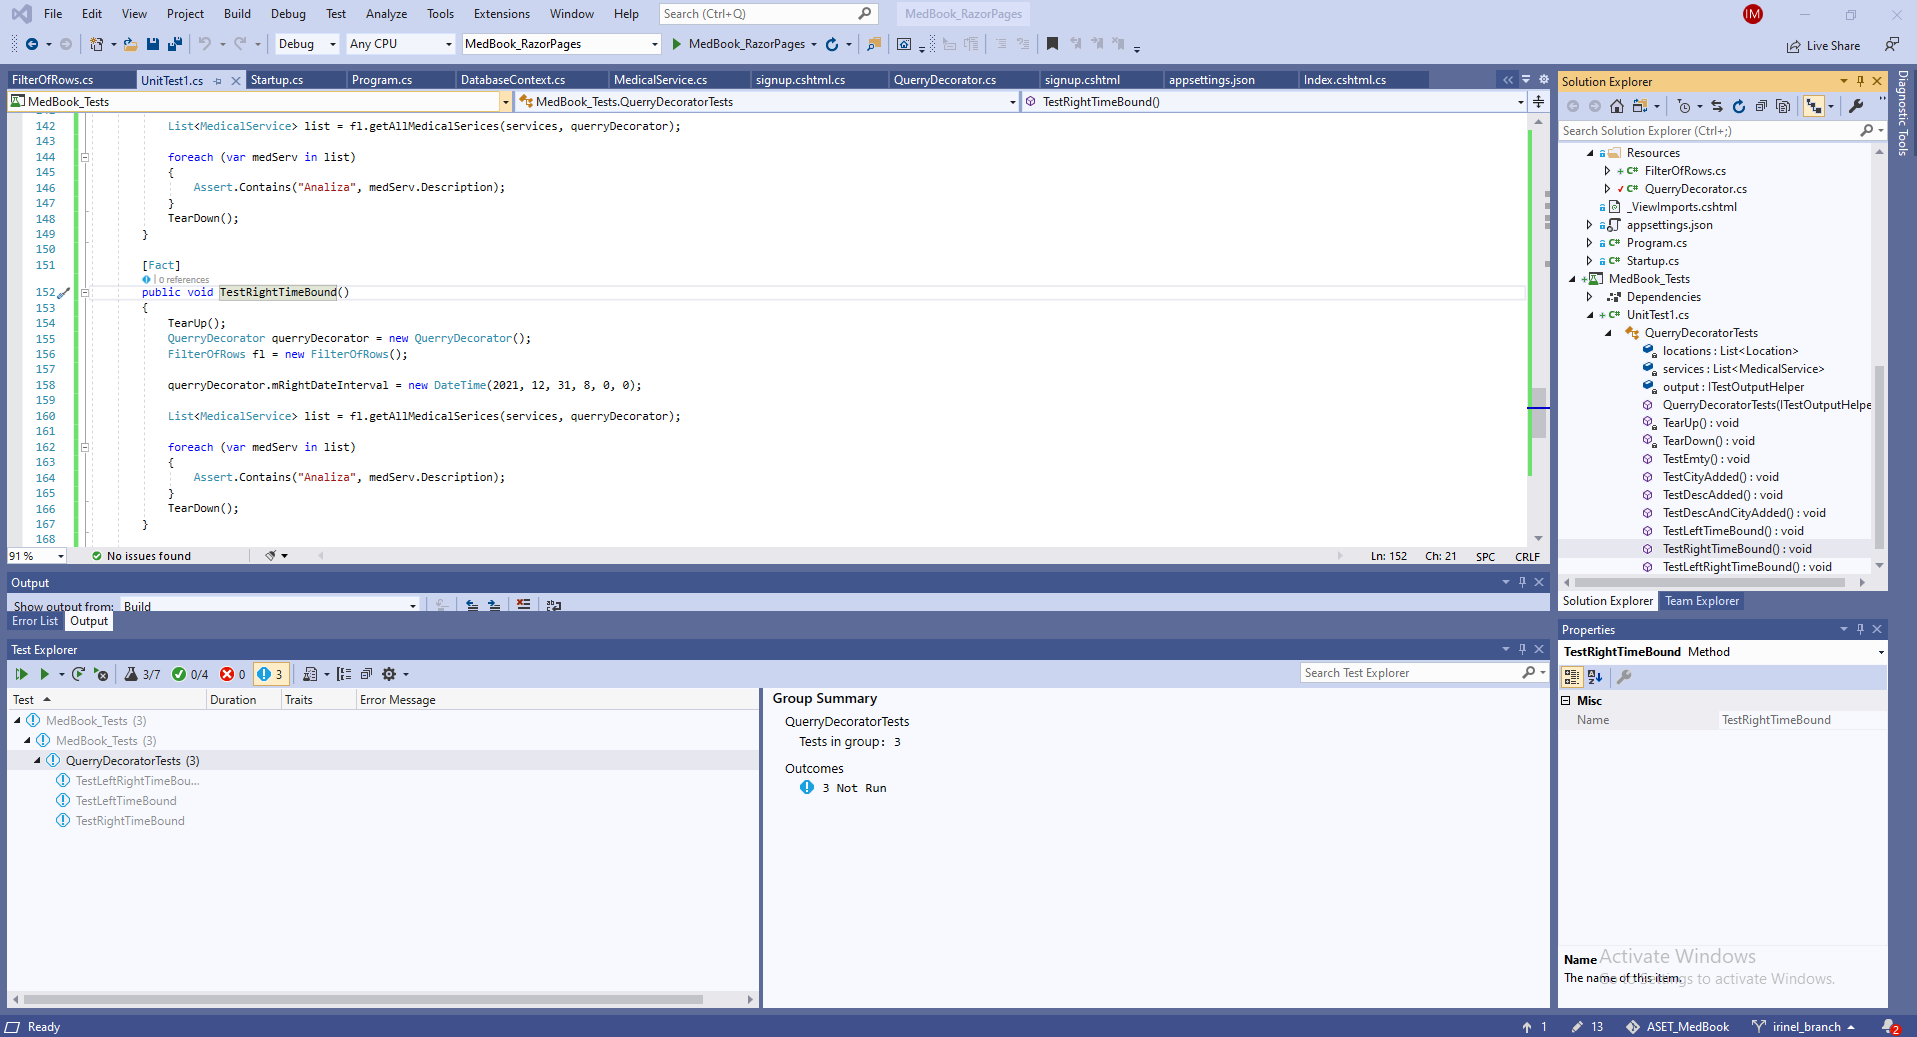
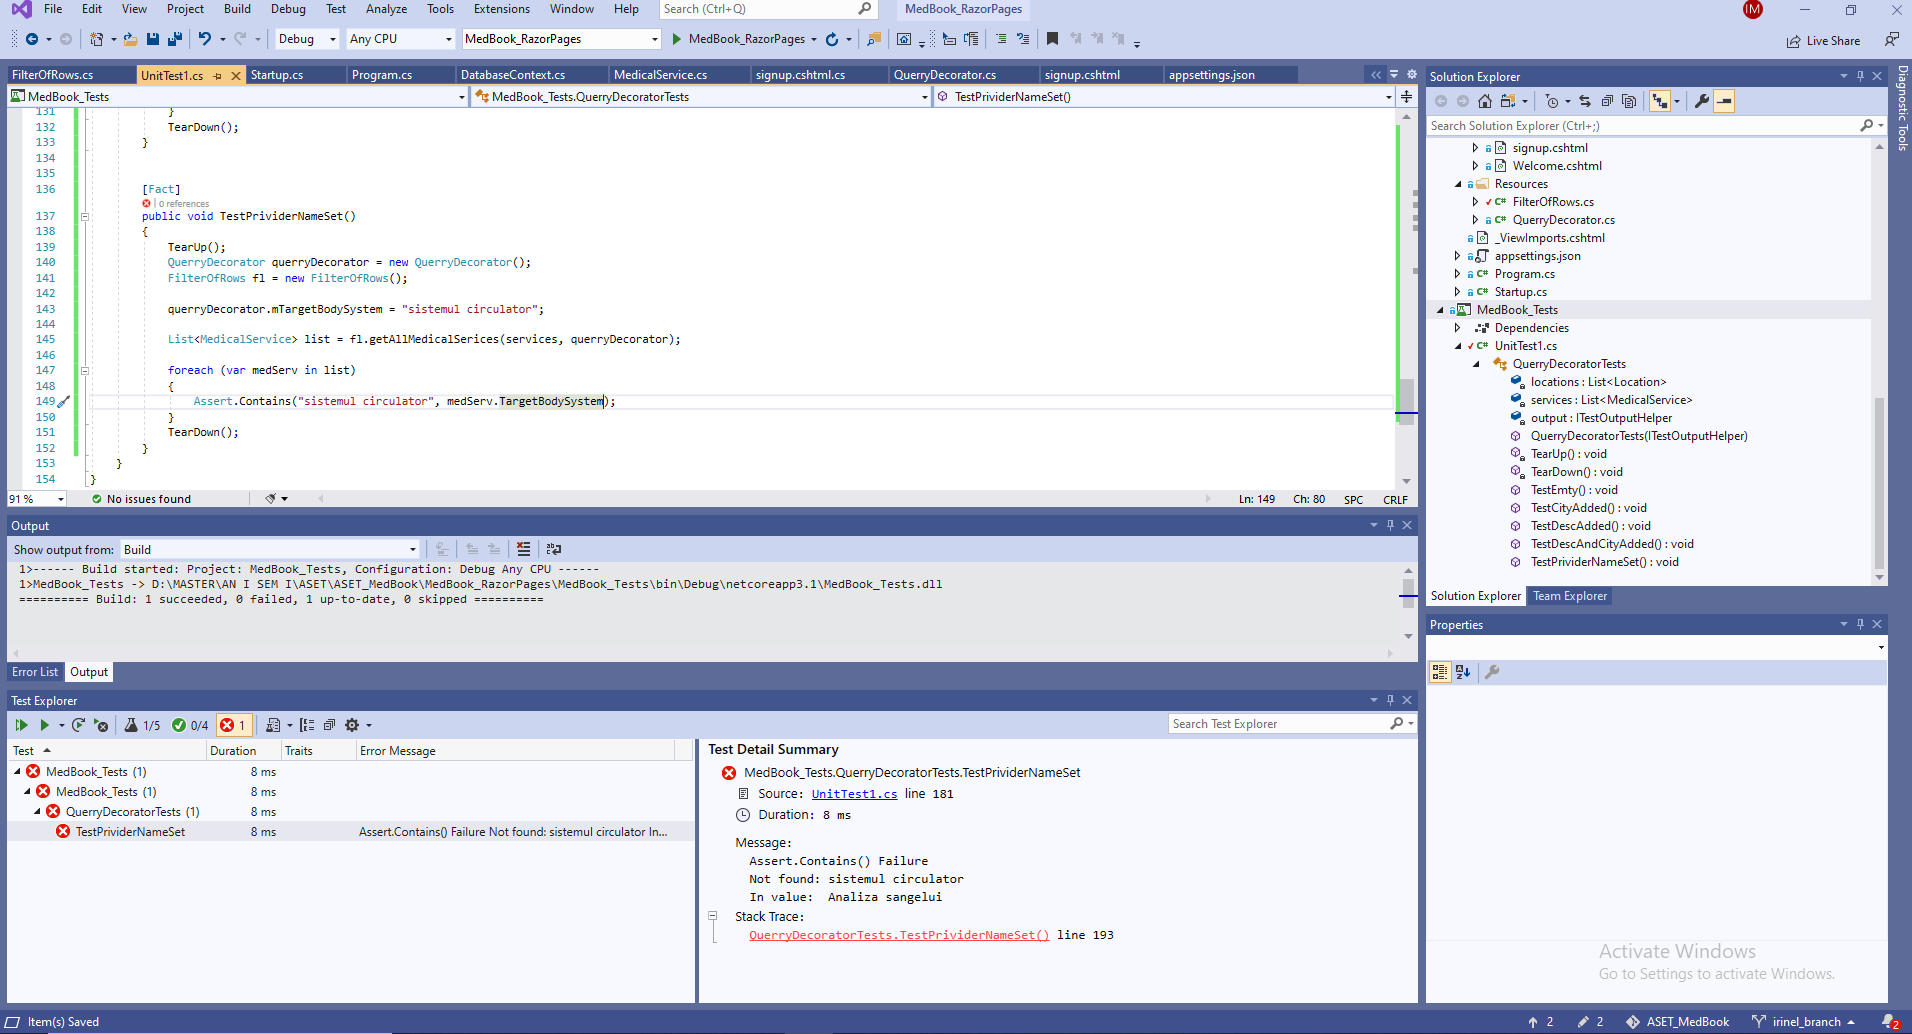
Added second interation tests

Changed region(s): [[0.0, 0.0, 1.0, 1.0], [0.8949, 0.6809, 0.9566, 0.7118]]

diff --git a/MedBook_RazorPages/MedBook_RazorPages/Resources/FilterOfRows.cs b/MedBook_RazorPages/MedBook_RazorPages/Resources/FilterOfRows.cs
@@ -14,16 +14,13 @@ namespace MedBook_RazorPages.Resources
             return locations.Where(l => l.id == id).FirstOrDefault();
         }
 
-        public List<MedicalService> getAllMedicalSerices(List<MedicalService> medicalService, List<Location> locations, QuerryDecorator querryDecorator)
+        public List<MedicalService> getAllMedicalSerices(List<MedicalService> medicalService,
+            List<Location> locations,
+            QuerryDecorator querryDecorator)
         {
             List<MedicalService> retList = new List<MedicalService>();
             retList.Clear();
-
-            if (querryDecorator.mLeftDateInterval != default(DateTime) || querryDecorator.mRightDateInterval != default(DateTime))
-            {
-                throw new NotImplementedException();
-            }
-
+           
             foreach (MedicalService medServ in medicalService)
             {
                 bool isValid = true;
@@ -47,15 +44,11 @@ namespace MedBook_RazorPages.Resources
         }
 
 
-        public List<MedicalService> getAllMedicalSerices(List<MedicalService> medicalService, QuerryDecorator querryDecorator)
+        public List<MedicalService> getAllMedicalSerices(List<MedicalService> medicalService,
+            QuerryDecorator querryDecorator)
         {
             List<MedicalService> retList = new List<MedicalService>();
             retList.Clear();
-
-            if (querryDecorator.mLeftDateInterval != default(DateTime) || querryDecorator.mRightDateInterval != default(DateTime))
-            {
-                throw new NotImplementedException();
-            }
 
             foreach (MedicalService medServ in medicalService)
             {
@@ -64,38 +57,7 @@ namespace MedBook_RazorPages.Resources
                 {
                     isValid = false;
                 }
-
-                if (querryDecorator.mLeftDateInterval != default(DateTime))
-                {
-                    
-                }
-                if (querryDecorator.mRightDateInterval != default(DateTime))
-                {
-                    
-                }
-                if (isValid)
-                {
-                    retList.Add(medServ);
-                }
-            }
-            return retList;
-        }
-
-
-        public List<MedicalService> getAllMedicalSerices(List<MedicalService> medicalService, List<Appointment> appointments, QuerryDecorator querryDecorator)
-        {
-            List<MedicalService> retList = new List<MedicalService>();
-            retList.Clear();
-
-            if (querryDecorator.mLeftDateInterval != default(DateTime) || querryDecorator.mRightDateInterval != default(DateTime))
-            {
-                throw new NotImplementedException();
-            }
-
-            foreach (MedicalService medServ in medicalService)
-            {
-                bool isValid = true;
-                if (querryDecorator.mDescription != default(string) && !medServ.Description.Contains(querryDecorator.mDescription))
+                if (querryDecorator.mTargetBodySystem != default(string) && !medServ.TargetBodySystem.Contains(querryDecorator.mTargetBodySystem))
                 {
                     isValid = false;
                 }

diff --git a/MedBook_RazorPages/MedBook_Tests/UnitTest1.cs b/MedBook_RazorPages/MedBook_Tests/UnitTest1.cs
@@ -48,11 +48,13 @@ namespace MedBook_Tests
             // ================= MedicalService ==================
             MedicalService m1 = new MedicalService();
             m1.Description = "Radiologie dentara";
+            m1.TargetBodySystem = "sistemul osos";
             m1.LocationId = 1;
             
             MedicalService m2 = new MedicalService();
             m2.Description = "Analiza sangelui";
             m2.LocationId = 2;
+            m2.TargetBodySystem = "sistemul circulator";
 
             locations.Add(location1);
             locations.Add(location2);
@@ -130,60 +132,23 @@ namespace MedBook_Tests
             TearDown();
         }
 
+        
         [Fact]
-        public void TestLeftTimeBound()
+        public void TestPrividerNameSet()
         {
             TearUp();
             QuerryDecorator querryDecorator = new QuerryDecorator();
             FilterOfRows fl = new FilterOfRows();
 
-            querryDecorator.mLeftDateInterval = new DateTime(2020, 12, 31, 8, 0, 0);
+            querryDecorator.mTargetBodySystem = "sistemul circulator";
 
             List<MedicalService> list = fl.getAllMedicalSerices(services, querryDecorator);
 
             foreach (var medServ in list)
             {
-                Assert.Contains("Analiza", medServ.Description);
+                Assert.Contains("sistemul circulator", medServ.TargetBodySystem);
             }
             TearDown();
         }
-
-        [Fact]
-        public void TestRightTimeBound()
-        {
-            TearUp();
-            QuerryDecorator querryDecorator = new QuerryDecorator();
-            FilterOfRows fl = new FilterOfRows();
-
-            querryDecorator.mRightDateInterval = new DateTime(2021, 12, 31, 8, 0, 0);
-
-            List<MedicalService> list = fl.getAllMedicalSerices(services, querryDecorator);
-
-            foreach (var medServ in list)
-            {
-                Assert.Contains("Analiza", medServ.Description);
-            }
-            TearDown();
-        }
-
-        [Fact]
-        public void TestLeftRightTimeBound()
-        {
-            TearUp();
-            QuerryDecorator querryDecorator = new QuerryDecorator();
-            FilterOfRows fl = new FilterOfRows();
-
-            querryDecorator.mLeftDateInterval = new DateTime(2020, 12, 31, 8, 0, 0);
-            querryDecorator.mRightDateInterval = new DateTime(2021, 12, 31, 8, 0, 0);
-
-            List<MedicalService> list = fl.getAllMedicalSerices(services, querryDecorator);
-
-            foreach (var medServ in list)
-            {
-                Assert.Contains("Analiza", medServ.Description);
-            }
-            TearDown();
-        }
-
     }
 }
